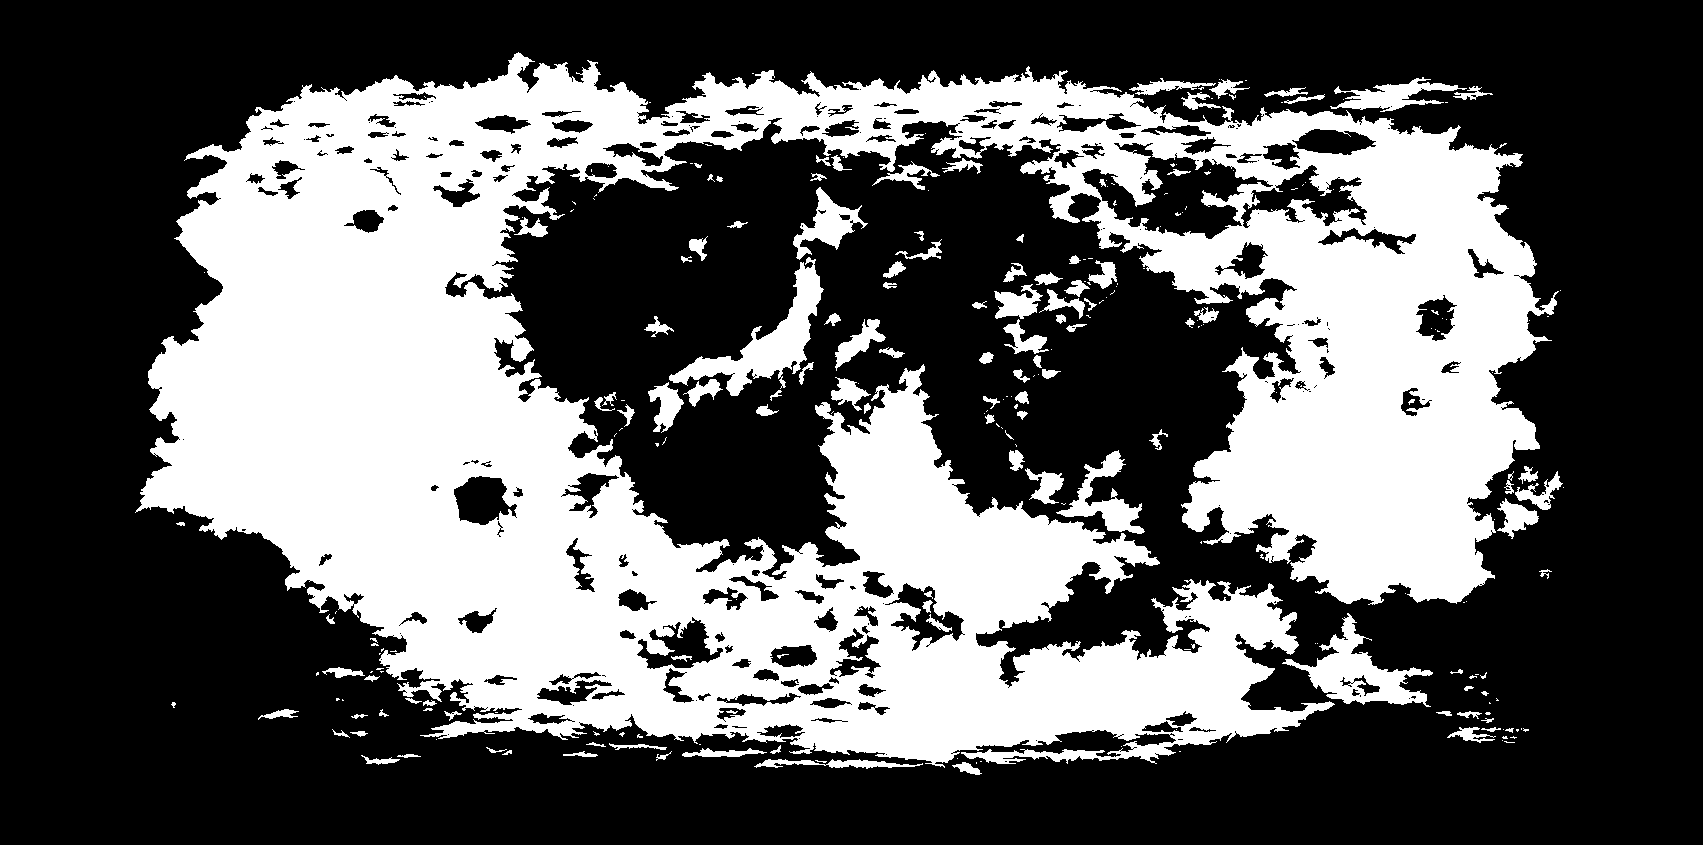
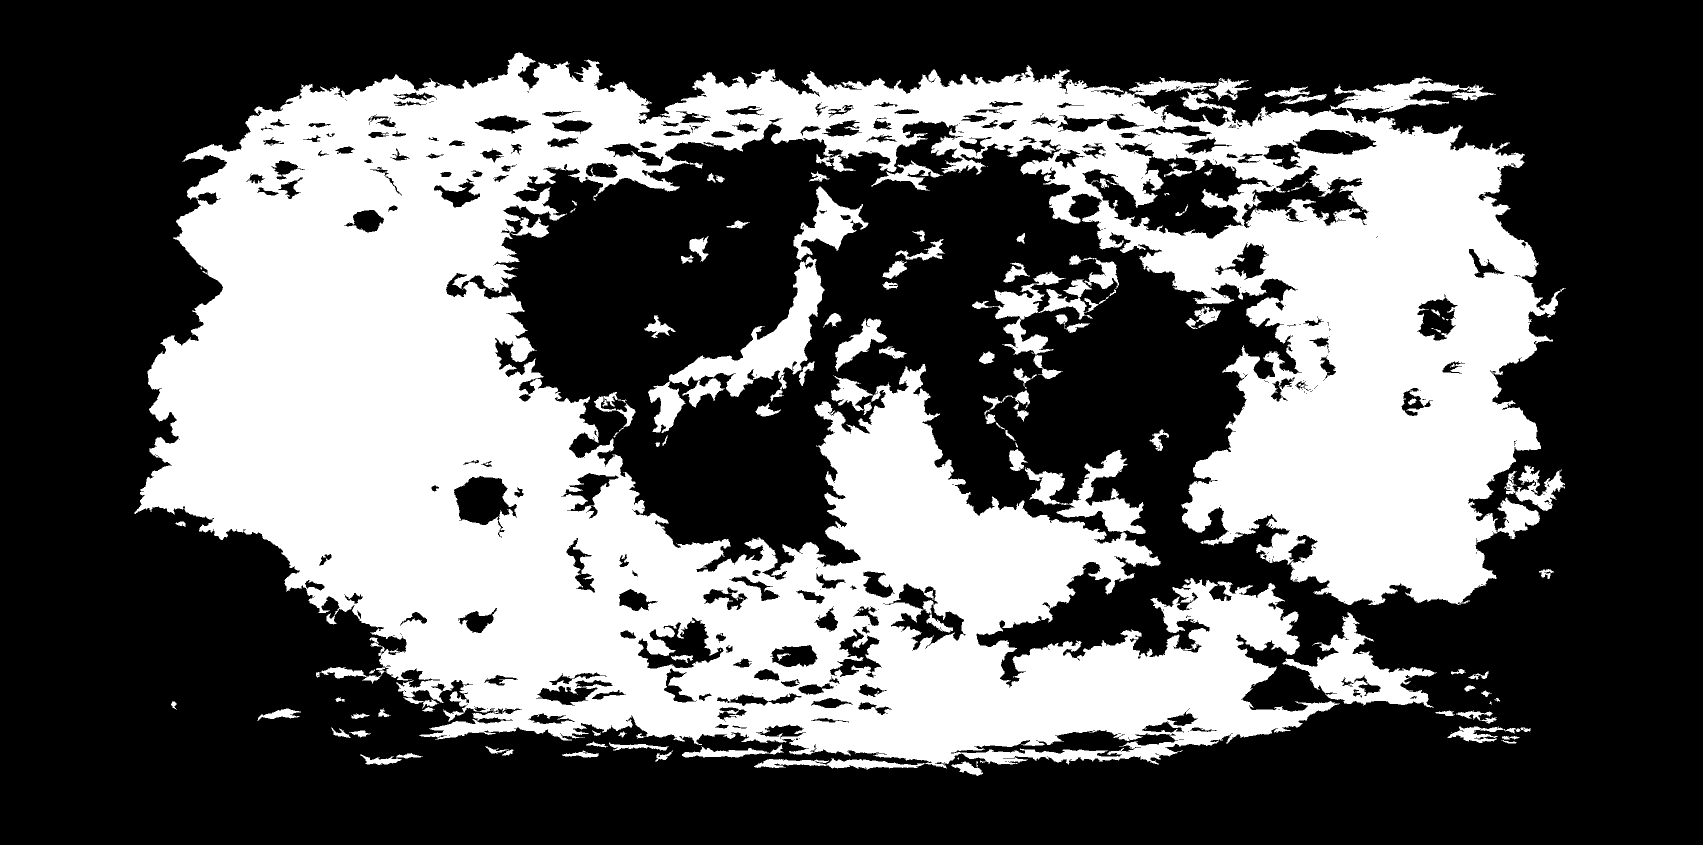
Заливка территорий без дыр у берегов и внутри границ
Кисть теперь красит и прибрежные клетки (суши меньше половины), пропуски
у берега и замкнутые дыры внутри государства заполняются сами, а контур
выходит на клетку в море и обрезается по берегу на карте. Сетку суши
строит tools/land_grid.py из map.json.

Claude-Session: https://claude.ai/code/session_01LaJVAAzdM2GKS1aiEX7EuV

diff --git a/assets/territory-editor.js b/assets/territory-editor.js
@@ -1,6 +1,9 @@
 /* Редактор территорий кистью (только для администратора).
  * Карта делится на сетку клеток 8×8 пикселей исходной карты; кисть красит клетки суши в цвет государства,
  * ластик снимает принадлежность. При сохранении клетки каждого государства превращаются в контур (d3-contour).
+ * Чтобы заливка ложилась на сушу без дыр: прибрежные клетки (суши меньше половины) тоже красятся,
+ * мелкие пропуски у берега и замкнутые дыры внутри государства заполняются сами, а контур выходит
+ * на клетку в море — на карте территория обрезается по берегу, так что заливка доходит до самой кромки.
  */
 (function () {
   "use strict";
@@ -56,17 +59,86 @@
     return pts.filter((_, i) => keep[i]);
   }
 
-  function gridToGeometry(owner, idx, W, H) {
+  // Соседи клетки (8 направлений) в пределах сетки
+  function eachNeighbor(i, W, H, fn) {
+    const x = i % W, y = (i - x) / W;
+    for (let dy = -1; dy <= 1; dy++) for (let dx = -1; dx <= 1; dx++) {
+      if (!dx && !dy) continue;
+      const nx = x + dx, ny = y + dy;
+      if (nx >= 0 && ny >= 0 && nx < W && ny < H) fn(ny * W + nx);
+    }
+  }
+
+  /* Заполняет пропуски, которые кисть оставляет у берега и внутри территории. Возвращает число заполненных клеток.
+   * 1) Береговая клетка без хозяина, у которой не меньше трёх соседей одного государства и не больше одной
+   *    ничьей клетки суши, отходит этому государству (зубцы и полоски вдоль берега, заливов, проливов).
+   * 2) Ничья суша, со всех сторон окружённая одним государством (без выхода к морю и к другим), — тоже его.
+   * Повторный запуск ничего не меняет, так что территория не расползается от сохранения к сохранению. */
+  function fillGaps(owner, land, W, H) {
+    const N = W * H;
+    let filled = 0;
+    const shore = new Uint8Array(N);
+    for (let i = 0; i < N; i++) {
+      if (!land[i]) continue;
+      if (land[i] === 2) { shore[i] = 1; continue; }
+      eachNeighbor(i, W, H, (j) => { if (!land[j]) shore[i] = 1; });
+    }
+    const counts = new Uint16Array(256);
+    for (let changed = true, pass = 0; changed && pass < 50; pass++) {
+      changed = false;
+      for (let i = 0; i < N; i++) {
+        if (!shore[i] || owner[i]) continue;
+        let free = 0, best = 0, bestN = 0;
+        const seen = [];
+        eachNeighbor(i, W, H, (j) => {
+          if (!land[j]) return;
+          const o = owner[j];
+          if (!o) { free++; return; }
+          if (!counts[o]) seen.push(o);
+          if (++counts[o] > bestN) { bestN = counts[o]; best = o; }
+        });
+        for (const o of seen) counts[o] = 0;
+        if (best && bestN >= 3 && free <= 1) { owner[i] = best; filled++; changed = true; }
+      }
+    }
+    // замкнутые дыры
+    const seenHole = new Uint8Array(N), queue = new Int32Array(N);
+    for (let s = 0; s < N; s++) {
+      if (!land[s] || owner[s] || seenHole[s]) continue;
+      let head = 0, tail = 0, by = 0, open = false;
+      queue[tail++] = s; seenHole[s] = 1;
+      while (head < tail) {
+        const i = queue[head++], x = i % W;
+        if (x === 0 || x === W - 1 || i < W || i >= N - W) open = true;
+        for (const j of [i - W, i + W, x > 0 ? i - 1 : -1, x < W - 1 ? i + 1 : -1]) {
+          if (j < 0 || j >= N) continue;
+          if (!land[j]) { open = true; continue; }
+          const o = owner[j];
+          if (o) { if (!by) by = o; else if (by !== o) open = true; continue; }
+          if (!seenHole[j]) { seenHole[j] = 1; queue[tail++] = j; }
+        }
+      }
+      if (!open && by) { for (let k = 0; k < tail; k++) owner[queue[k]] = by; filled += tail; }
+    }
+    return filled;
+  }
+
+  function gridToGeometry(owner, land, idx, W, H) {
     const values = new Float64Array(W * H);
     let any = false;
     for (let i = 0; i < owner.length; i++) if (owner[i] === idx) { values[i] = 1; any = true; }
     if (!any) return null;
+    // клетка моря вокруг суши государства: на карте заливка обрезается по берегу и доходит до кромки
+    for (let i = 0; i < owner.length; i++) {
+      if (land[i] || values[i]) continue;
+      eachNeighbor(i, W, H, (j) => { if (owner[j] === idx) values[i] = 0.75; });
+    }
     const mp = window.d3.contours().size([W, H]).thresholds([0.5])(values)[0];
     const polys = [];
     for (const poly of mp.coordinates) {
       const rings = [];
       for (const ring of poly) {
-        const pts = simplify(ring, 0.9).map(([x, y]) => [Math.round(x * CELL), Math.round(y * CELL)]);
+        const pts = simplify(ring, 0.5).map(([x, y]) => [Math.round(x * CELL), Math.round(y * CELL)]);
         if (pts.length >= 4) rings.push(pts);
       }
       if (rings.length && rings[0].length >= 4) polys.push(rings);
@@ -101,7 +173,8 @@
     const landImg = await loadImageData("assets/land_grid.png");
     const W = landImg.width, H = landImg.height;
     const land = new Uint8Array(W * H);
-    for (let i = 0; i < W * H; i++) land[i] = landImg.data[i * 4] > 127 ? 1 : 0;
+    // 1 — суша, 2 — прибрежная клетка (суши меньше половины), 0 — вода; см. tools/land_grid.py
+    for (let i = 0; i < W * H; i++) { const v = landImg.data[i * 4]; land[i] = v > 191 ? 1 : v > 63 ? 2 : 0; }
 
     // владельцы: индекс 1..n -> id государства
     let owners = opts.states.map((s) => s.id);
@@ -126,6 +199,10 @@
       });
     }
 
+    // старые раскраски делались по более грубой сетке — сразу добираем пропуски у берега
+    const gapsOnOpen = saved || (opts.borders && opts.borders.features.length) ? fillGaps(owner, land, W, H) : 0;
+    let dirty = gapsOnOpen > 0;
+
     // холст предпросмотра
     const canvas = document.createElement("canvas"); canvas.width = W; canvas.height = H;
     const cctx = canvas.getContext("2d");
@@ -144,7 +221,7 @@
     // элементы управления
     const sel = ui.querySelector("#brushState");
     sel.innerHTML = opts.states.map((s, i) => `<option value="${i + 1}">${s.name.replace(/</g, "&lt;")}</option>`).join("");
-    let current = 1, mode = "brush", radius = Number(ui.querySelector("#brushSize").value) || 6, dirty = false;
+    let current = 1, mode = "brush", radius = Number(ui.querySelector("#brushSize").value) || 6;
     sel.onchange = () => { current = Number(sel.value); };
     ui.querySelector("#brushSize").oninput = (e) => { radius = Number(e.target.value); ui.querySelector("#brushSizeOut").textContent = radius; };
     ui.querySelector("#brushSizeOut").textContent = radius;
@@ -158,7 +235,9 @@
     };
     ui.querySelectorAll("[data-mode]").forEach((b) => { b.onclick = () => setMode(b.dataset.mode); });
     setMode("brush");
-    msg(opts.states.length ? "Выберите государство и красьте сушу. Колесо мыши — масштаб, «Рука» — двигать карту." : "Сначала добавьте государство в «Управлении».");
+    msg(!opts.states.length ? "Сначала добавьте государство в «Управлении»."
+      : gapsOnOpen ? `Пустые места у берегов и внутри границ заполнены (${gapsOnOpen} клеток) — нажмите «Сохранить», чтобы они появились на карте.`
+      : "Выберите государство и красьте сушу. Колесо мыши — масштаб, «Рука» — двигать карту.");
 
     // рисование
     let drawing = false, last = null;
@@ -214,8 +293,9 @@
       btn.disabled = true; msg("Строю границы…");
       try {
         await new Promise((r) => setTimeout(r, 30));
+        fillGaps(owner, land, W, H);
         const geometries = {};
-        owners.forEach((id, i) => { geometries[id] = gridToGeometry(owner, i + 1, W, H); });
+        owners.forEach((id, i) => { geometries[id] = gridToGeometry(owner, land, i + 1, W, H); });
         msg("Сохраняю…");
         await opts.save({ grid: { w: W, h: H, owners, rle: rle(owner) }, geometries });
         dirty = false;

diff --git a/tools/land_grid.py b/tools/land_grid.py
@@ -1,0 +1,41 @@
+"""Строит assets/land_grid.png — сетку суши для кисти территорий (клетка 8×8 пикселей карты).
+
+255 — клетка в основном суша, 128 — прибрежная клетка, где суши меньше половины, 0 — вода.
+Прибрежные клетки тоже можно красить: без них у берегов и в заливах оставались пустые полоски.
+
+    python3 tools/land_grid.py assets/map.json assets/land_grid.png
+"""
+import json
+import sys
+
+import numpy as np
+from PIL import Image, ImageDraw
+
+CELL = 8
+SS = 4  # отсчётов на сторону клетки
+
+
+def main(src, dst):
+    d = json.load(open(src, encoding="utf-8"))
+    W, H = d["w"] // CELL, d["h"] // CELL  # как в прежней сетке: сохранённые раскраски должны совпадать по размеру
+    sw, sh = W * SS, H * SS
+    k = SS / CELL
+    mask = np.zeros((sh, sw), dtype=bool)
+    for ring in d["water"][0][1:]:  # суша — кольца после внешней рамки, правило even-odd
+        pts = [(x * k, y * k) for x, y in ring]
+        xs = [p[0] for p in pts]; ys = [p[1] for p in pts]
+        x0, y0 = max(0, int(min(xs)) - 1), max(0, int(min(ys)) - 1)
+        x1, y1 = min(sw, int(max(xs)) + 2), min(sh, int(max(ys)) + 2)
+        if x1 <= x0 or y1 <= y0:
+            continue
+        im = Image.new("1", (x1 - x0, y1 - y0), 0)
+        ImageDraw.Draw(im).polygon([(x - x0, y - y0) for x, y in pts], fill=1)
+        mask[y0:y1, x0:x1] ^= np.array(im, dtype=bool)
+    frac = mask.reshape(H, SS, W, SS).mean(axis=(1, 3))
+    out = np.where(frac > 0.5, 255, np.where(frac > 0, 128, 0)).astype(np.uint8)
+    Image.fromarray(out, "L").save(dst, optimize=True)
+    print(f"{W}×{H}: суша {np.sum(out == 255)}, берег {np.sum(out == 128)}")
+
+
+if __name__ == "__main__":
+    main(*sys.argv[1:3])
